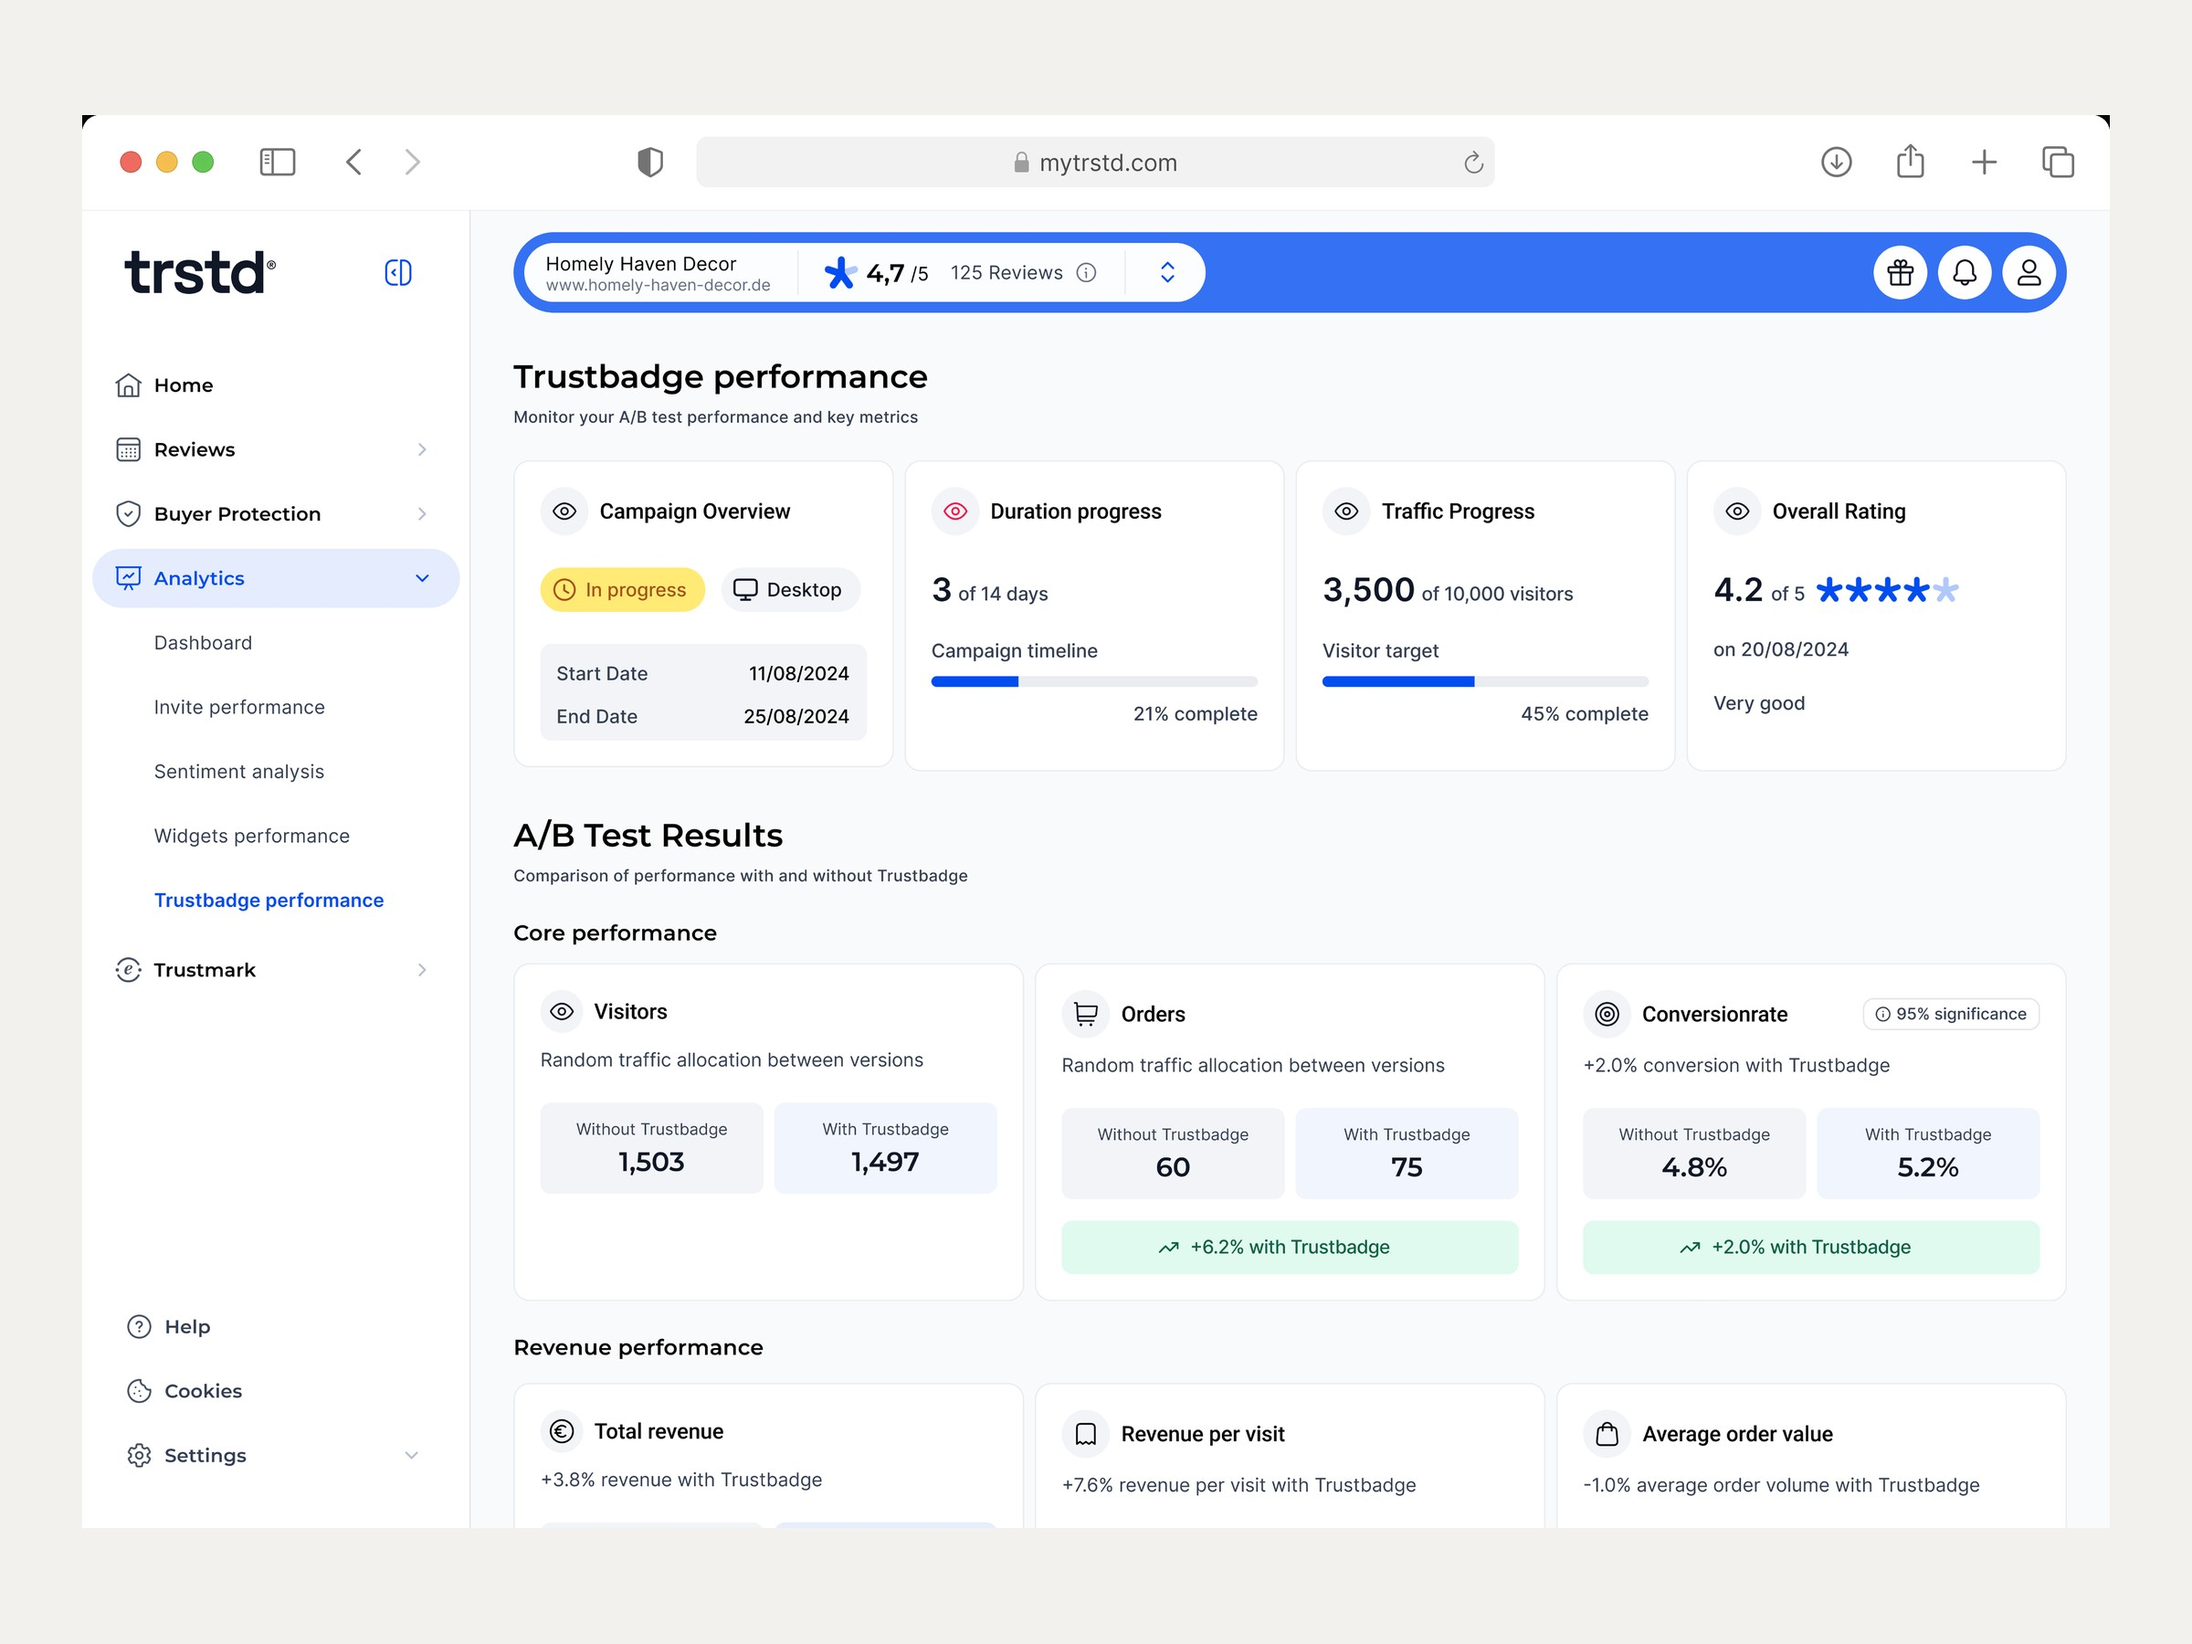
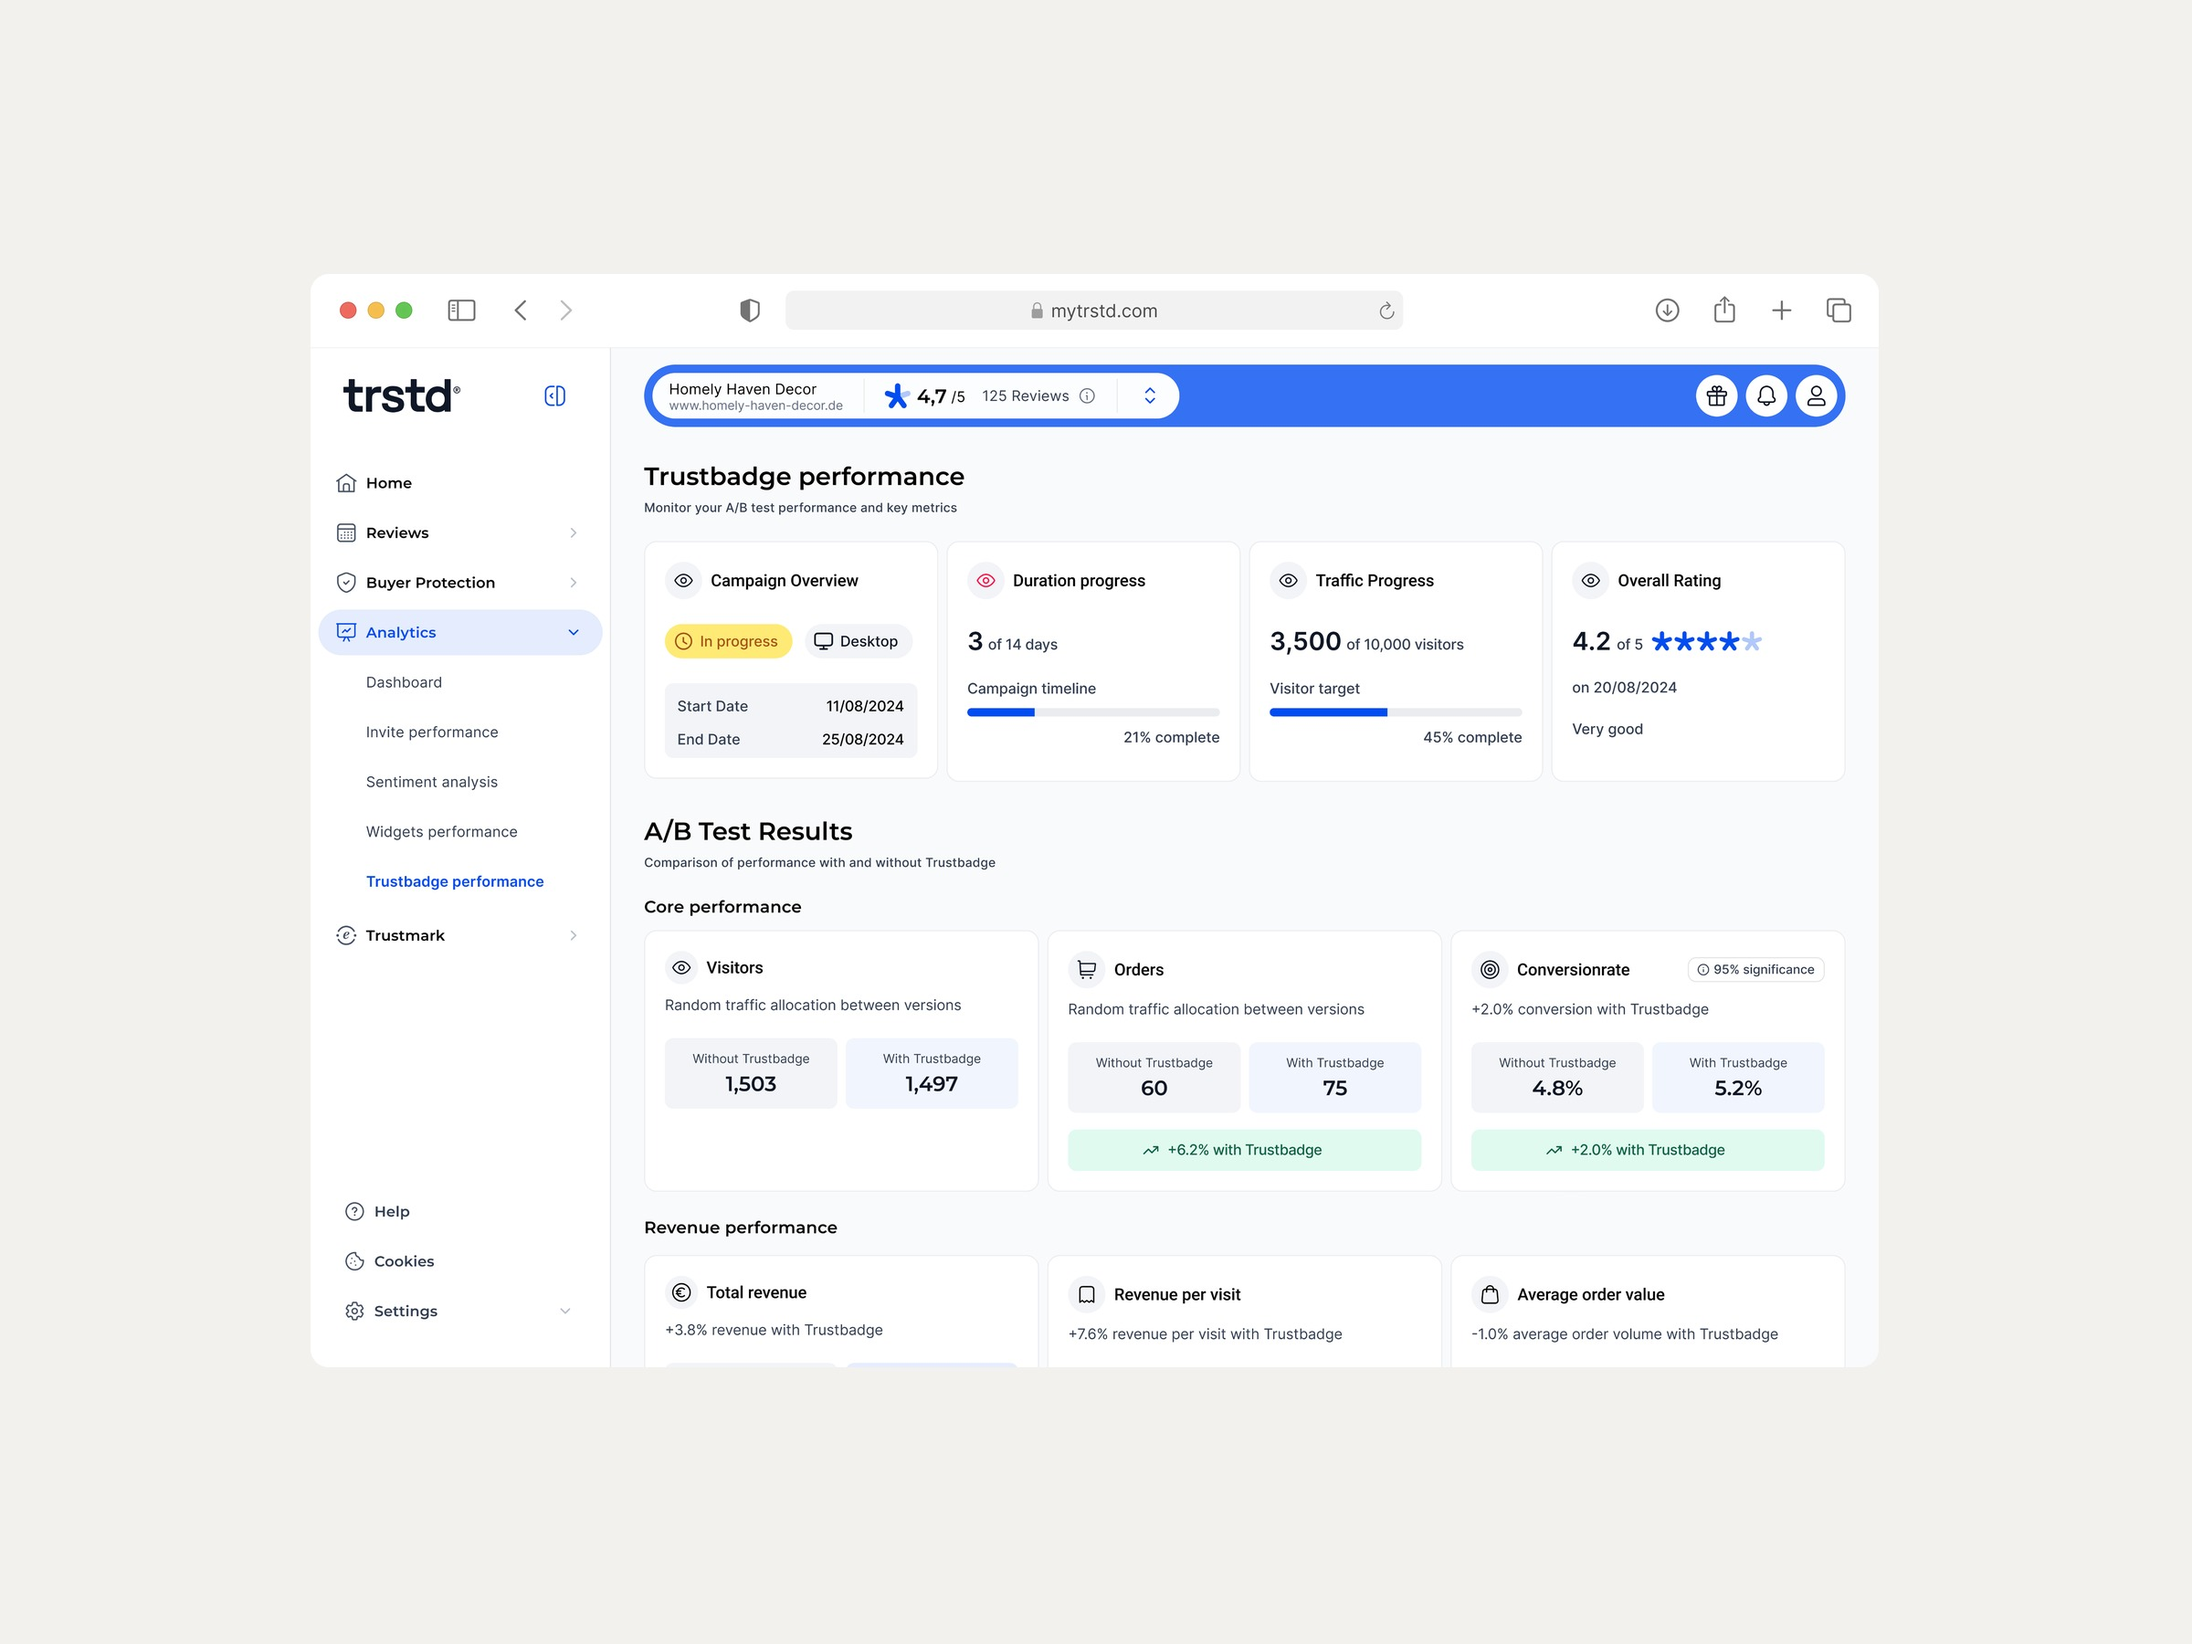
Trustbadge: cover scaled to match Smart insights, rounded mockup corners on cover+hero; Trusted account hero: recolor outer square only, screens untouched

diff --git a/index.html b/index.html
@@ -135,7 +135,7 @@
           <span class="grid-card-meta mono">B2B · AI · 2025–26</span>
         </a>
         <a class="grid-card" href="case-trustbadge-ab.html">
-          <span class="grid-cover" data-tone="d"><img src="assets/tb-cover.jpg?v=2" alt="Trustbadge A/B testing – results dashboard" loading="lazy"></span>
+          <span class="grid-cover" data-tone="d"><img src="assets/tb-cover.jpg?v=3" alt="Trustbadge A/B testing – results dashboard" loading="lazy"></span>
           <span class="grid-card-name">Trustbadge A/B testing</span>
           <span class="grid-card-meta mono">B2B · Web · 2024</span>
         </a>

diff --git a/case-trustbadge-ab.html b/case-trustbadge-ab.html
@@ -55,7 +55,7 @@
 
     <!-- 2. hero image -->
     <div class="case-media case-media-hero is-img">
-      <img src="assets/tb-results.jpg?v=3" alt="A/B test results: core and revenue performance with vs. without Trustbadge" loading="lazy">
+      <img src="assets/tb-results.jpg?v=4" alt="A/B test results: core and revenue performance with vs. without Trustbadge" loading="lazy">
     </div>
 
     <!-- 3. impact strip -->

diff --git a/case-trusted-account.html b/case-trusted-account.html
@@ -55,7 +55,7 @@
 
     <!-- 2. hero image -->
     <div class="case-media case-media-hero is-img">
-      <img src="assets/ta-hero-combo.jpg?v=2" alt="Redesigned Trusted Account on web and mobile" loading="lazy">
+      <img src="assets/ta-hero-combo.jpg?v=3" alt="Redesigned Trusted Account on web and mobile" loading="lazy">
     </div>
 
     <!-- 3. impact strip -->
